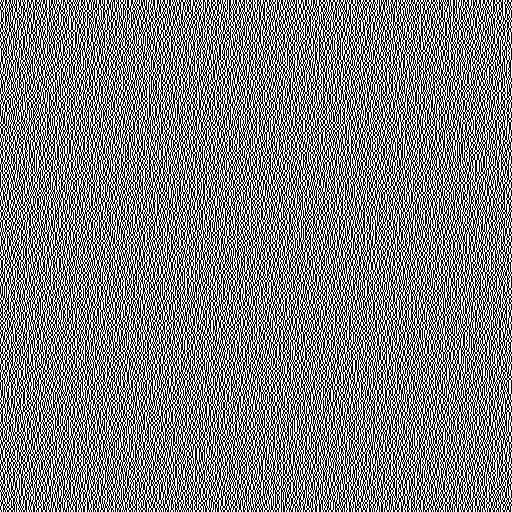
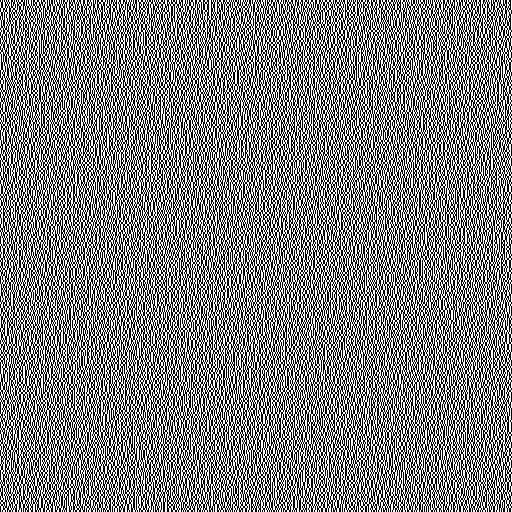
fix visual cryptography

diff --git a/2/div.py b/2/div.py
@@ -18,31 +18,31 @@ def split(infile):
 	draw_a = ImageDraw.Draw(img_a)
 	draw_b = ImageDraw.Draw(img_b)
 
-	options = (('1010', '0101'),('1001', '0110'))
-
 	for x in range(w):
 		for y in range(h):
 			pixel = img.getpixel((x, y))
 			if pixel == 0:
-				combination = random.choice(options[0])
-				draw_a.point((x*2, y*2), int(combination[0]))
-				draw_a.point((x*2+1, y*2), int(combination[1]))
-				draw_b.point((x*2, y*2), int(combination[2]))
-				draw_b.point((x*2+1, y*2), int(combination[3]))
-				draw_a.point((x*2, y*2+1), int(combination[0]))
-				draw_a.point((x*2+1, y*2+1), int(combination[1]))
-				draw_b.point((x*2, y*2+1), int(combination[2]))
-				draw_b.point((x*2+1, y*2+1), int(combination[3]))
+				combination = random.choice(([1,0,0,1], [0,1,1,0]))
+				draw_a.point((x*2  , y*2  ), combination[0])
+				draw_a.point((x*2+1, y*2  ), combination[1])
+				draw_a.point((x*2  , y*2+1), combination[0])
+				draw_a.point((x*2+1, y*2+1), combination[1])
+
+				draw_b.point((x*2  , y*2  ), combination[2])
+				draw_b.point((x*2+1, y*2  ), combination[3])
+				draw_b.point((x*2  , y*2+1), combination[2])
+				draw_b.point((x*2+1, y*2+1), combination[3])
 			else:
-				combination = random.choice(options[1])
-				draw_a.point((x*2, y*2), int(combination[0]))
-				draw_a.point((x*2+1, y*2), int(combination[1]))
-				draw_b.point((x*2, y*2), int(combination[2]))
-				draw_b.point((x*2+1, y*2), int(combination[3]))
-				draw_a.point((x*2, y*2+1), int(combination[0]))
-				draw_a.point((x*2+1, y*2+1), int(combination[1]))
-				draw_b.point((x*2, y*2+1), int(combination[2]))
-				draw_b.point((x*2+1, y*2+1), int(combination[3]))
+				combination = random.choice(([1,0,1,0], [0,1,0,1]))
+				draw_a.point((x*2  , y*2  ), combination[0])
+				draw_a.point((x*2+1, y*2  ), combination[1])
+				draw_a.point((x*2  , y*2+1), combination[0])
+				draw_a.point((x*2+1, y*2+1), combination[1])
+
+				draw_b.point((x*2  , y*2  ), combination[2])
+				draw_b.point((x*2+1, y*2  ), combination[3])
+				draw_b.point((x*2  , y*2+1), combination[2])
+				draw_b.point((x*2+1, y*2+1), combination[3])
 
 	# filepath, extenstion
 	f, e = os.path.splitext(infile)
